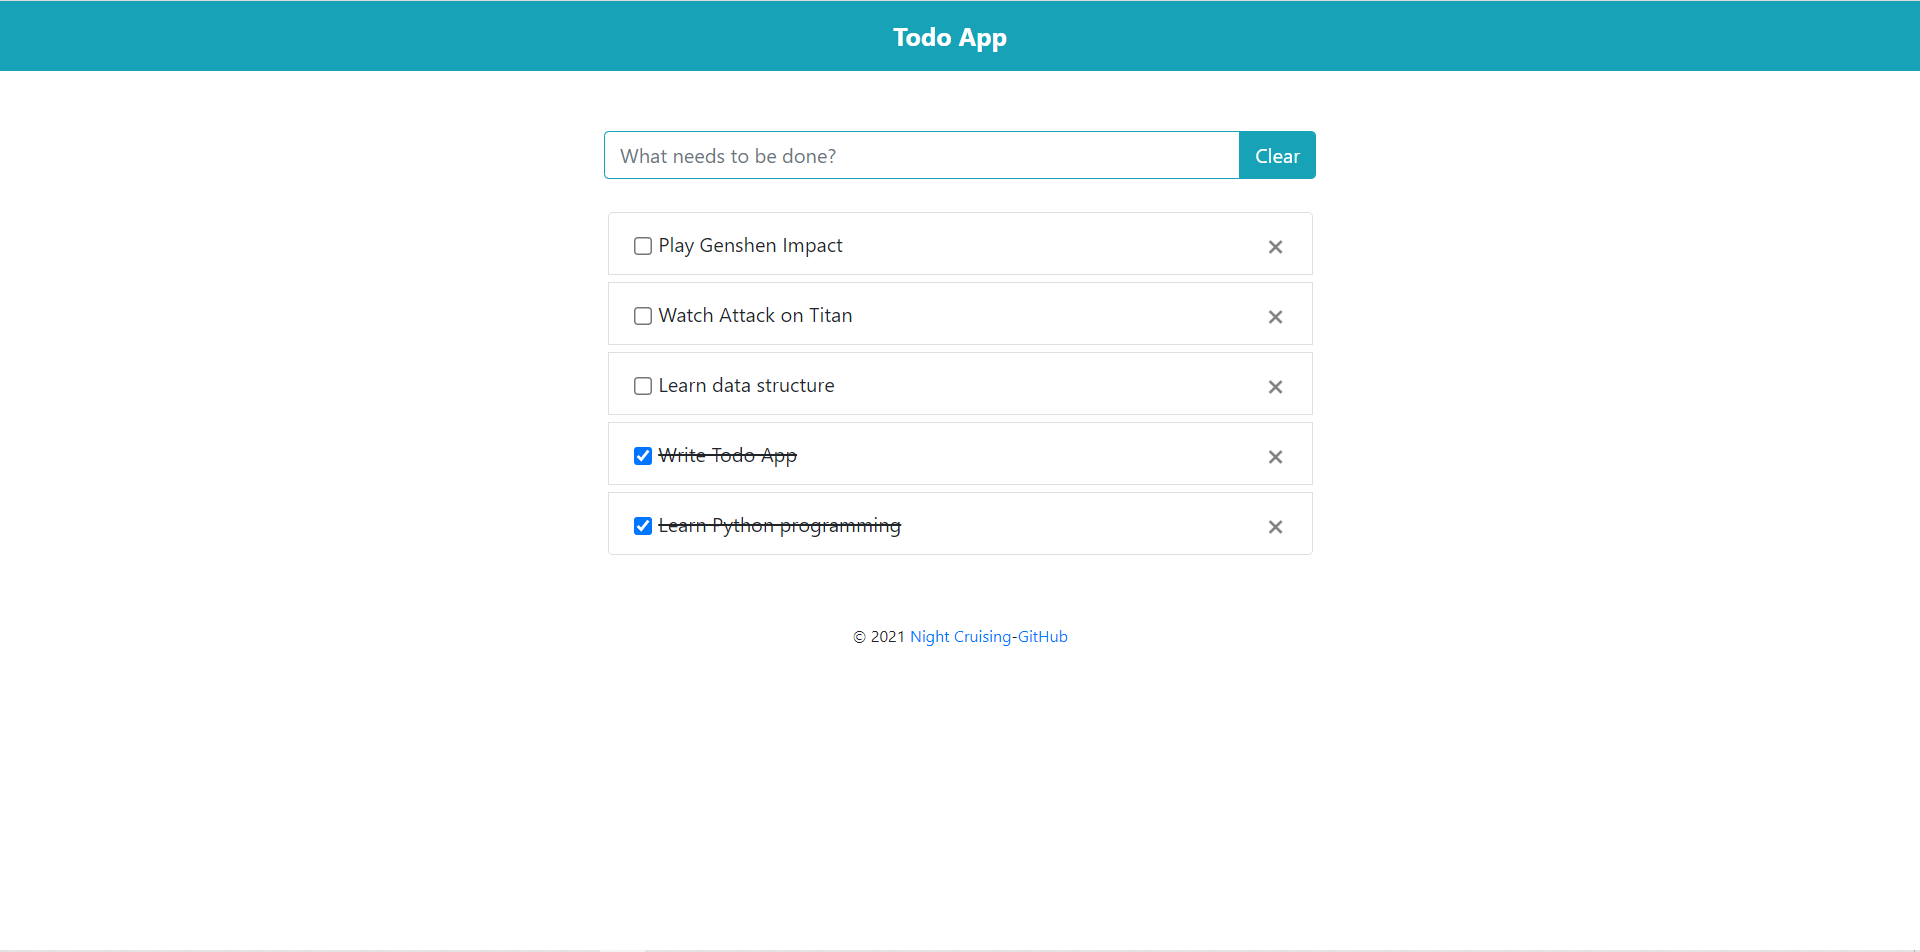
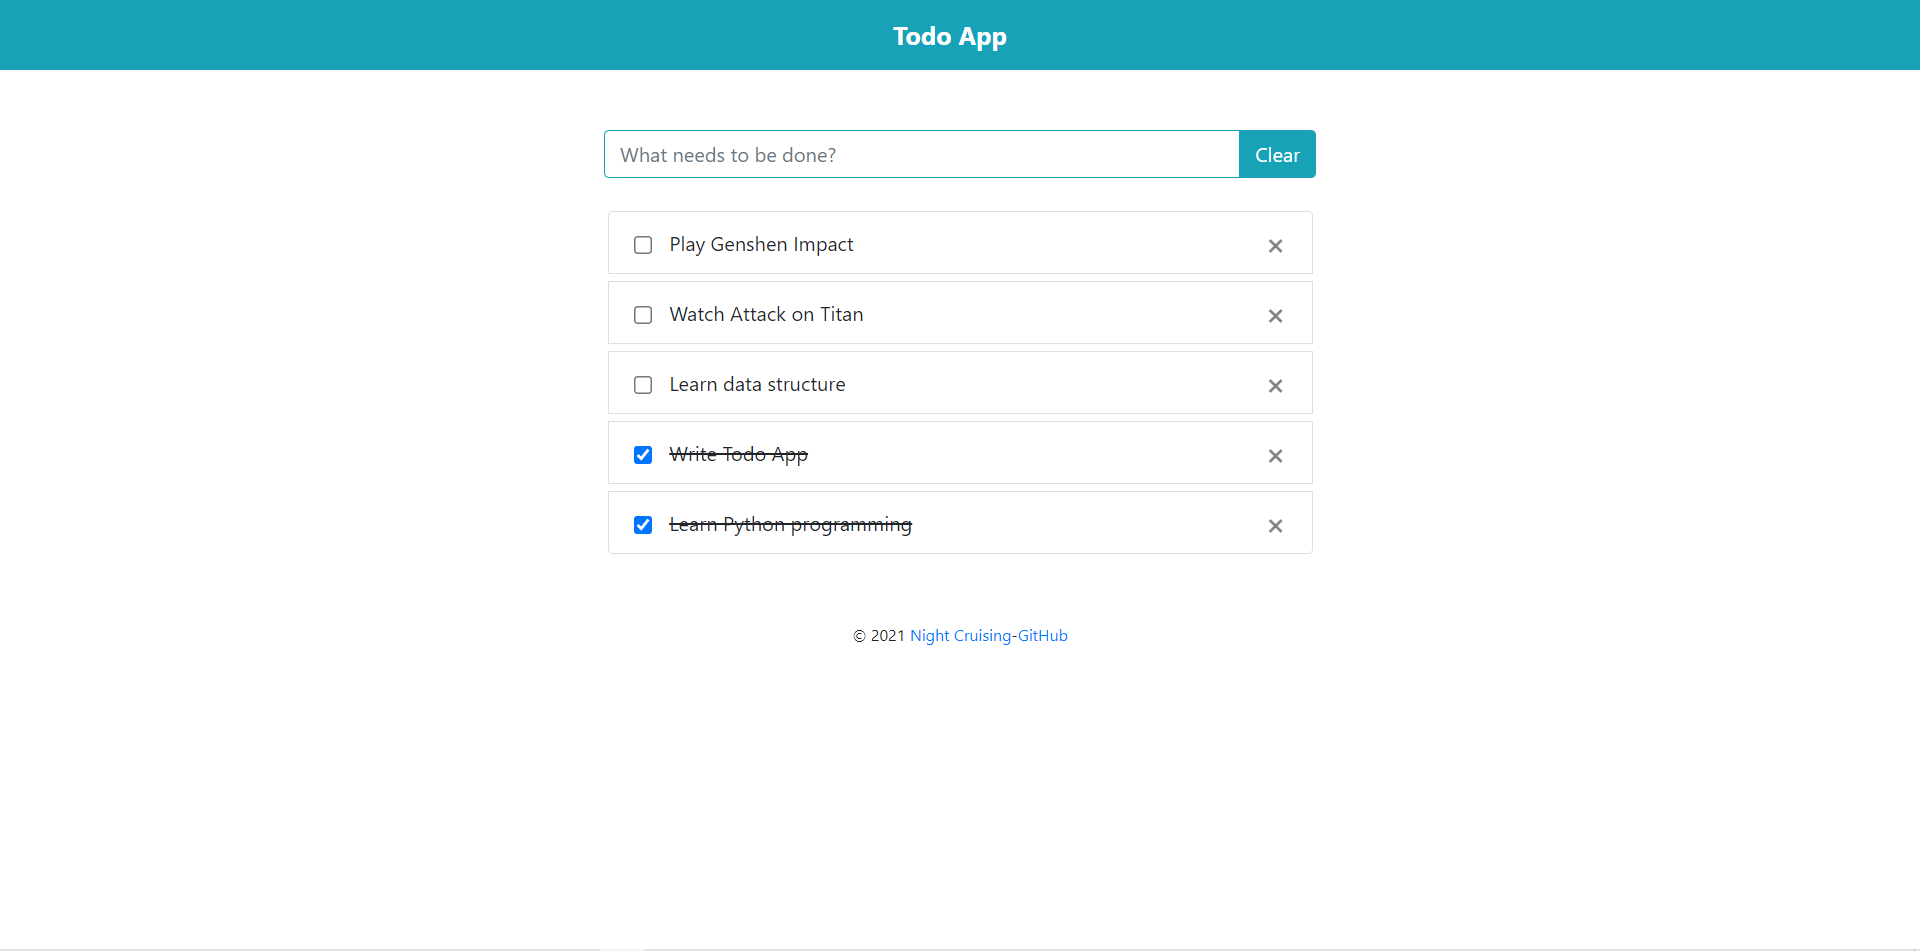
Use \u{00a0} to express &nbsp

diff --git a/src/todo.rs b/src/todo.rs
@@ -115,7 +115,7 @@ impl Todo {
         html! {
             <li class="list-group-item" style="margin:3px">
                 <input type="checkbox" style="zoom:120%;vertical-align:middle;" checked={ checked } onclick={ link.callback(move |_| Msg::ToggleOne(idx)) } />
-                {" "}
+                {'\u{00a0}'}{'\u{00a0}'}{'\u{00a0}'}
                 <span style={ completed }>
                     { &val.content }
                 </span>
